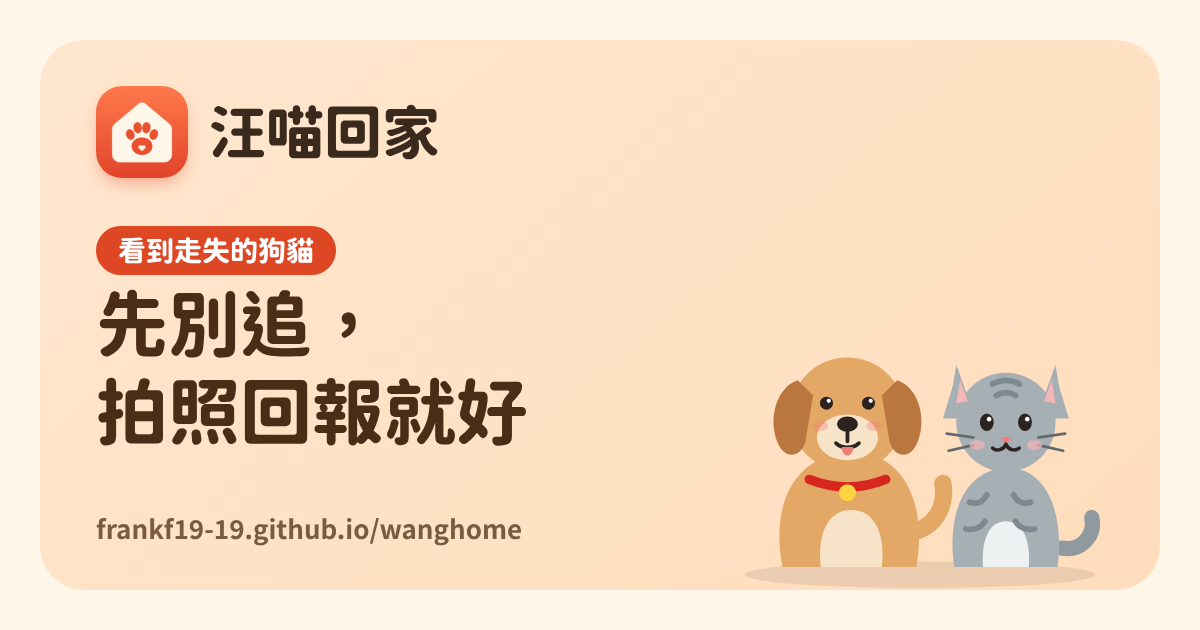
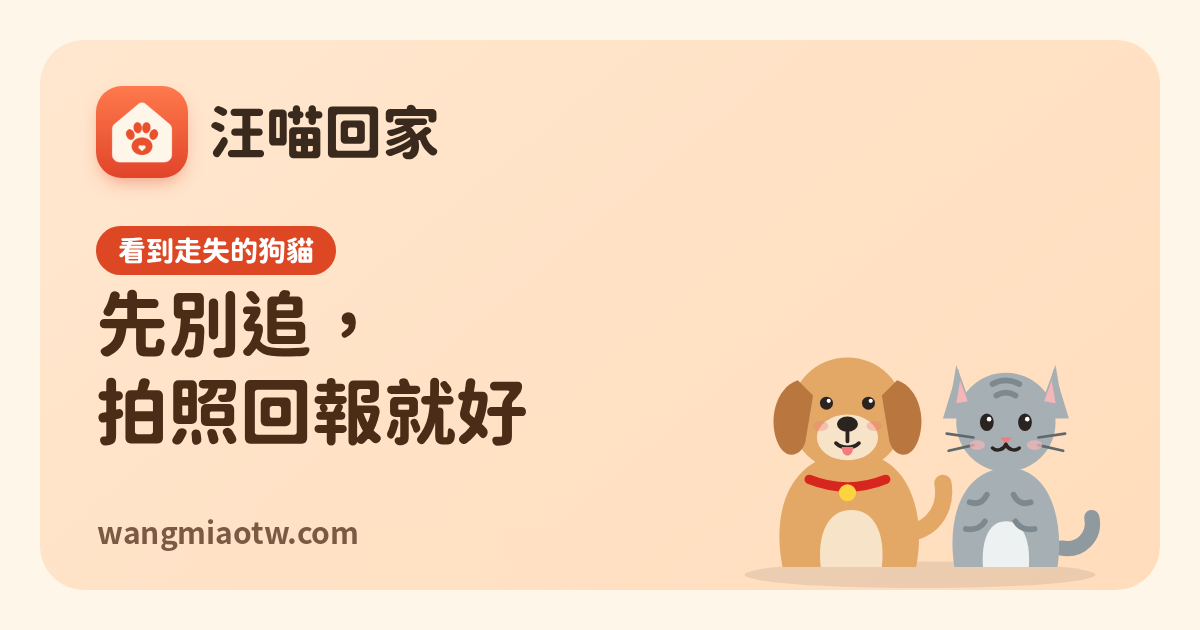
分享預覽圖：網址改成 wangmiaotw.com（og.png?v=2 讓社群平台重新抓圖）
Claude-Session: https://claude.ai/code/session_01MdsMtFgJ6HMDNZx8NZYNwC

Changed region(s): [[0.0617, 0.8143, 0.4317, 0.8746]]

diff --git a/lib/guides.js b/lib/guides.js
@@ -373,7 +373,7 @@ function shell({ title, desc, canonical, body, jsonld = [], noindex = false }) {
   return `<!DOCTYPE html><html lang="zh-Hant"><head><meta charset="utf-8"><meta name="viewport" content="width=device-width,initial-scale=1"><meta name="apple-itunes-app" content="app-id=6827632980">
 <title>${esc(title)}</title><meta name="description" content="${esc(desc)}">${noindex ? '<meta name="robots" content="noindex">' : ""}
 <link rel="canonical" href="${esc(canonical)}"><link rel="icon" href="${SITE}icon.svg" type="image/svg+xml">
-<meta property="og:type" content="article"><meta property="og:site_name" content="${NAME}"><meta property="og:title" content="${esc(title)}"><meta property="og:description" content="${esc(desc)}"><meta property="og:image" content="${SITE}og.png"><meta property="og:url" content="${esc(canonical)}"><meta property="og:locale" content="zh_TW"><meta name="twitter:card" content="summary_large_image">
+<meta property="og:type" content="article"><meta property="og:site_name" content="${NAME}"><meta property="og:title" content="${esc(title)}"><meta property="og:description" content="${esc(desc)}"><meta property="og:image" content="${SITE}og.png?v=2"><meta property="og:url" content="${esc(canonical)}"><meta property="og:locale" content="zh_TW"><meta name="twitter:card" content="summary_large_image">
 ${jsonld.map((j) => `<script type="application/ld+json">${JSON.stringify(j).replace(/</g, "\\u003c")}</script>`).join("\n")}
 <style>${CSS}</style></head><body>
 <header><a href="${SITE}"><img src="${SITE}icon.svg" alt="">${NAME}</a></header><main>${body}</main>
@@ -421,7 +421,7 @@ export async function guidePage(slug) {
   const note = a.kind === "learn" ? `<p class="note">這是一般照顧常識，每隻毛孩狀況不同，身體不舒服請以獸醫師的診斷和建議為準。</p>` : "";
   const text = a.sec.map(([h, items]) => h + "。" + items.map(strip).join(" ")).join(" ");
   const jsonld = [
-    { "@context": "https://schema.org", "@type": "Article", headline: a.t, description: desc, inLanguage: "zh-Hant", url: `${SITE}g/${a.id}`, image: `${SITE}og.png`,
+    { "@context": "https://schema.org", "@type": "Article", headline: a.t, description: desc, inLanguage: "zh-Hant", url: `${SITE}g/${a.id}`, image: `${SITE}og.png?v=2`,
       author: { "@type": "Organization", name: NAME, url: SITE }, publisher: { "@type": "Organization", name: NAME, logo: { "@type": "ImageObject", url: `${SITE}icon-512.png` } },
       articleBody: text.slice(0, 4000), about: a.kw ? a.kw.split("、") : undefined },
     breadcrumb(a)];

diff --git a/lib/seo.js b/lib/seo.js
@@ -44,7 +44,7 @@ main{max-width:960px;margin:0 auto;padding:0 16px 40px}h1{font-size:26px;line-he
 h2{font-size:20px;margin:28px 0 4px}nav.cities{display:flex;flex-wrap:wrap;gap:8px;margin-top:10px}nav.cities a{background:#fff;border-radius:99px;padding:6px 12px;text-decoration:none;color:var(--ink);font-size:14px}footer{color:var(--mute);font-size:13px;text-align:center;padding:24px 16px}`;
 
 function shell({ title, desc, canonical, image, body, noindex = false, jsonld = null }) {
-  const img = okImg(image) || SITE + "og.png";
+  const img = okImg(image) || SITE + "og.png?v=2";
   return `<!DOCTYPE html><html lang="zh-Hant"><head><meta charset="utf-8"><meta name="viewport" content="width=device-width,initial-scale=1"><meta name="apple-itunes-app" content="app-id=6827632980">
 <title>${esc(title)}</title><meta name="description" content="${esc(desc)}">${noindex ? '<meta name="robots" content="noindex">' : ""}
 <link rel="canonical" href="${esc(canonical)}"><link rel="icon" href="${SITE}icon.svg" type="image/svg+xml">

diff --git a/lib/adopt.js b/lib/adopt.js
@@ -53,7 +53,7 @@ table{border-collapse:collapse;width:100%;background:#fff;border-radius:16px;ove
 footer{max-width:960px;margin:0 auto;padding:16px;color:var(--mute);font-size:13px;border-top:1px solid var(--line)}`;
 
 function shell({ title, desc, canonical, image, body, noindex = false, jsonld = null }) {
-  const img = pic(image) || SITE + "og.png";
+  const img = pic(image) || SITE + "og.png?v=2";
   return `<!DOCTYPE html><html lang="zh-Hant"><head><meta charset="utf-8"><meta name="viewport" content="width=device-width,initial-scale=1"><meta name="apple-itunes-app" content="app-id=6827632980">
 <title>${esc(title)}</title><meta name="description" content="${esc(desc)}">${noindex ? '<meta name="robots" content="noindex">' : ""}
 <link rel="canonical" href="${esc(canonical)}"><link rel="icon" href="${SITE}icon.svg" type="image/svg+xml">

diff --git a/index.html b/index.html
@@ -53,7 +53,7 @@ if(h.indexOf('#mig=')===0){
 <meta property="og:url" content="https://wangmiaotw.com/">
 <meta property="og:site_name" content="汪喵回家">
 <meta property="og:locale" content="zh_TW">
-<meta property="og:image" content="https://wangmiaotw.com/og.png">
+<meta property="og:image" content="https://wangmiaotw.com/og.png?v=2">
 <meta property="og:image:width" content="1200">
 <meta property="og:image:height" content="630">
 <meta property="og:image:alt" content="汪喵回家：看到走失的狗貓，別追。拍照、記下時間地點，回報給飼主。">

diff --git a/lib/share.js b/lib/share.js
@@ -22,7 +22,7 @@ async function getOne(path, id, select) {
 }
 
 function page(title, desc, image, target, canonical, noindex = false) {
-  const own = okImg(image), t = esc(title), d = esc(desc), img = esc(own || SITE_URL + "og.png"), tgt = esc(target);
+  const own = okImg(image), t = esc(title), d = esc(desc), img = esc(own || SITE_URL + "og.png?v=2"), tgt = esc(target);
   return `<!DOCTYPE html>
 <html lang="zh-Hant"><head><meta charset="utf-8">
 <meta name="viewport" content="width=device-width,initial-scale=1">
